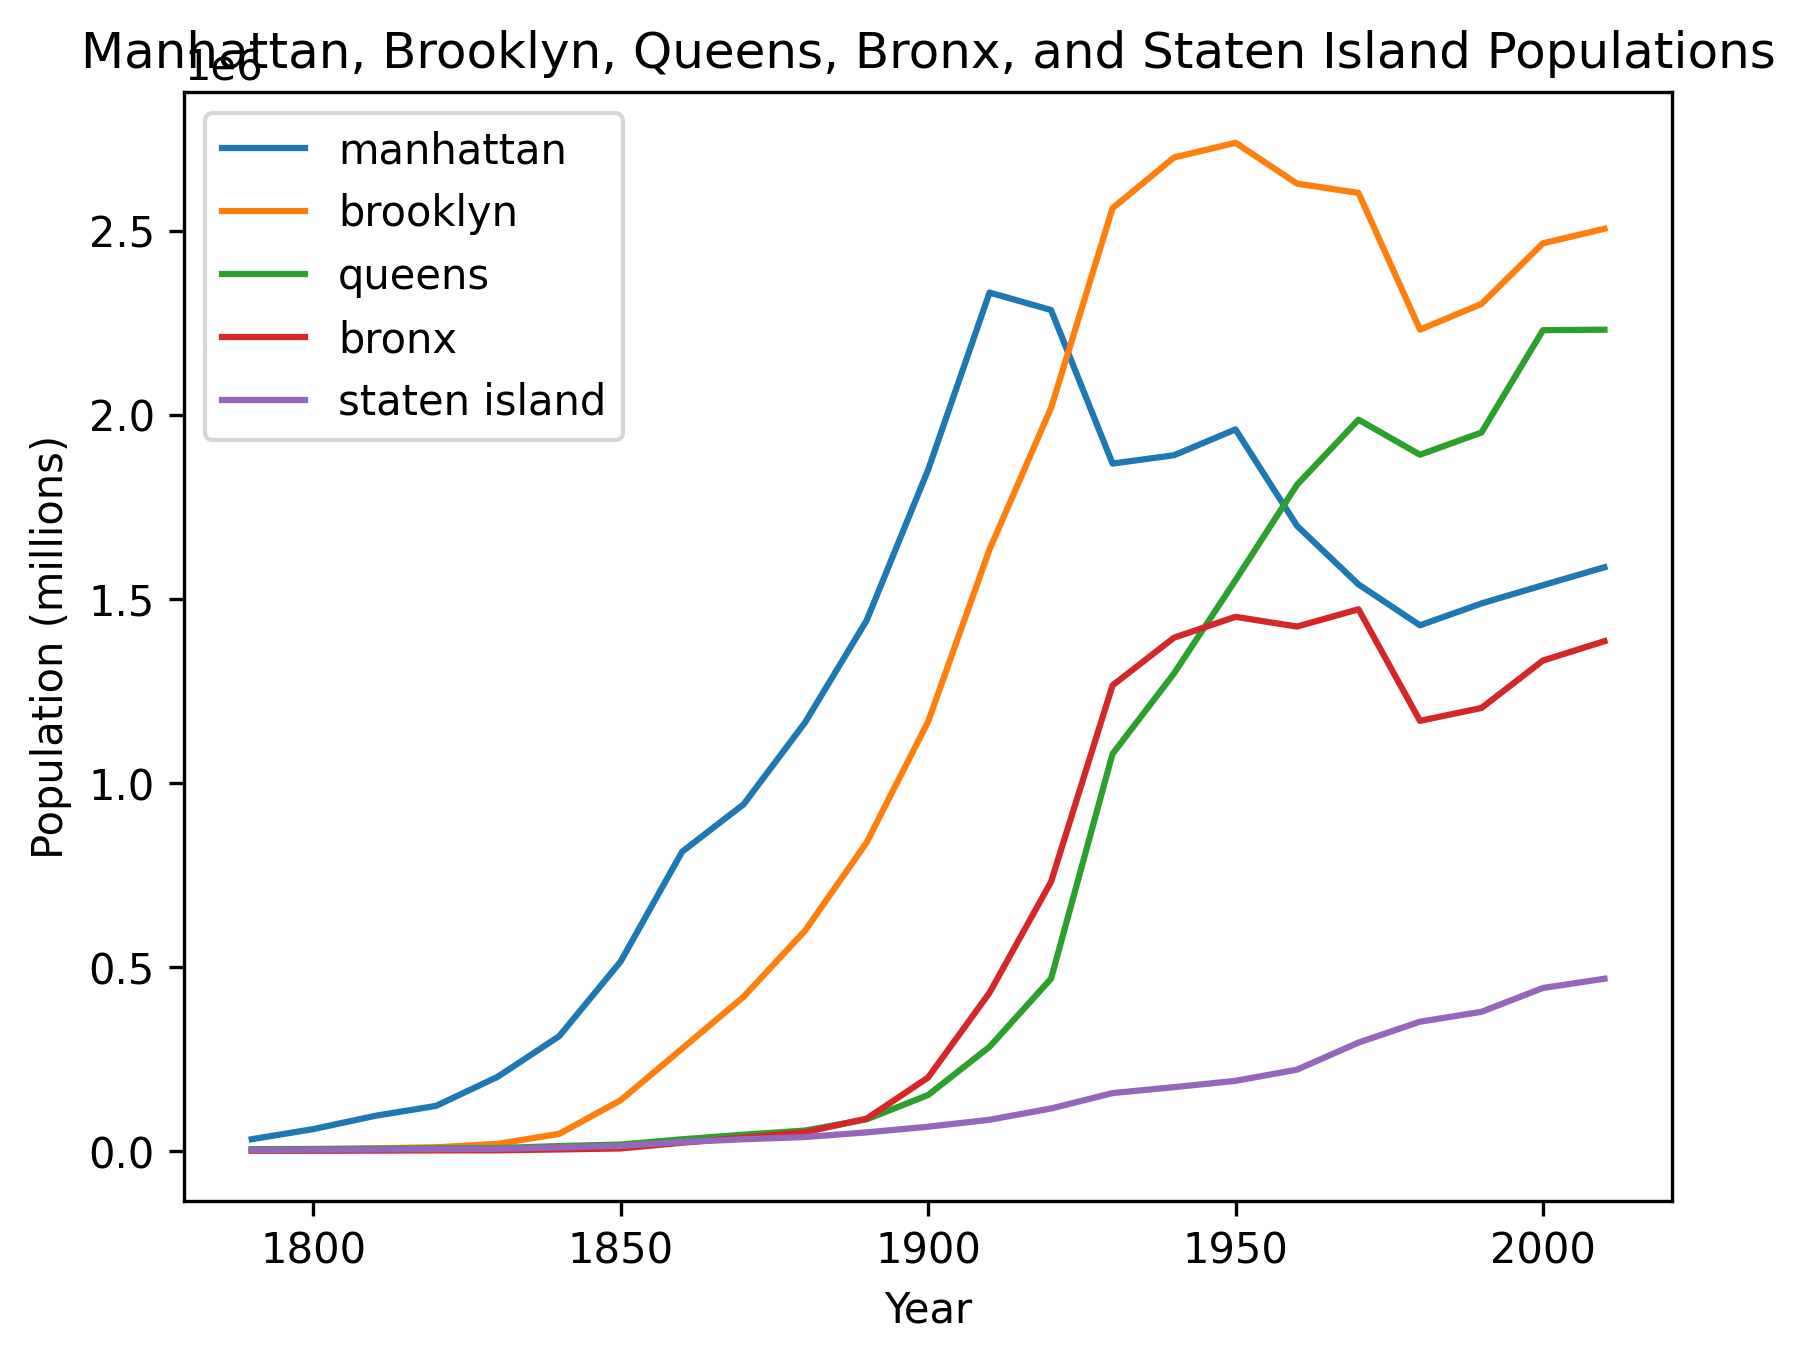
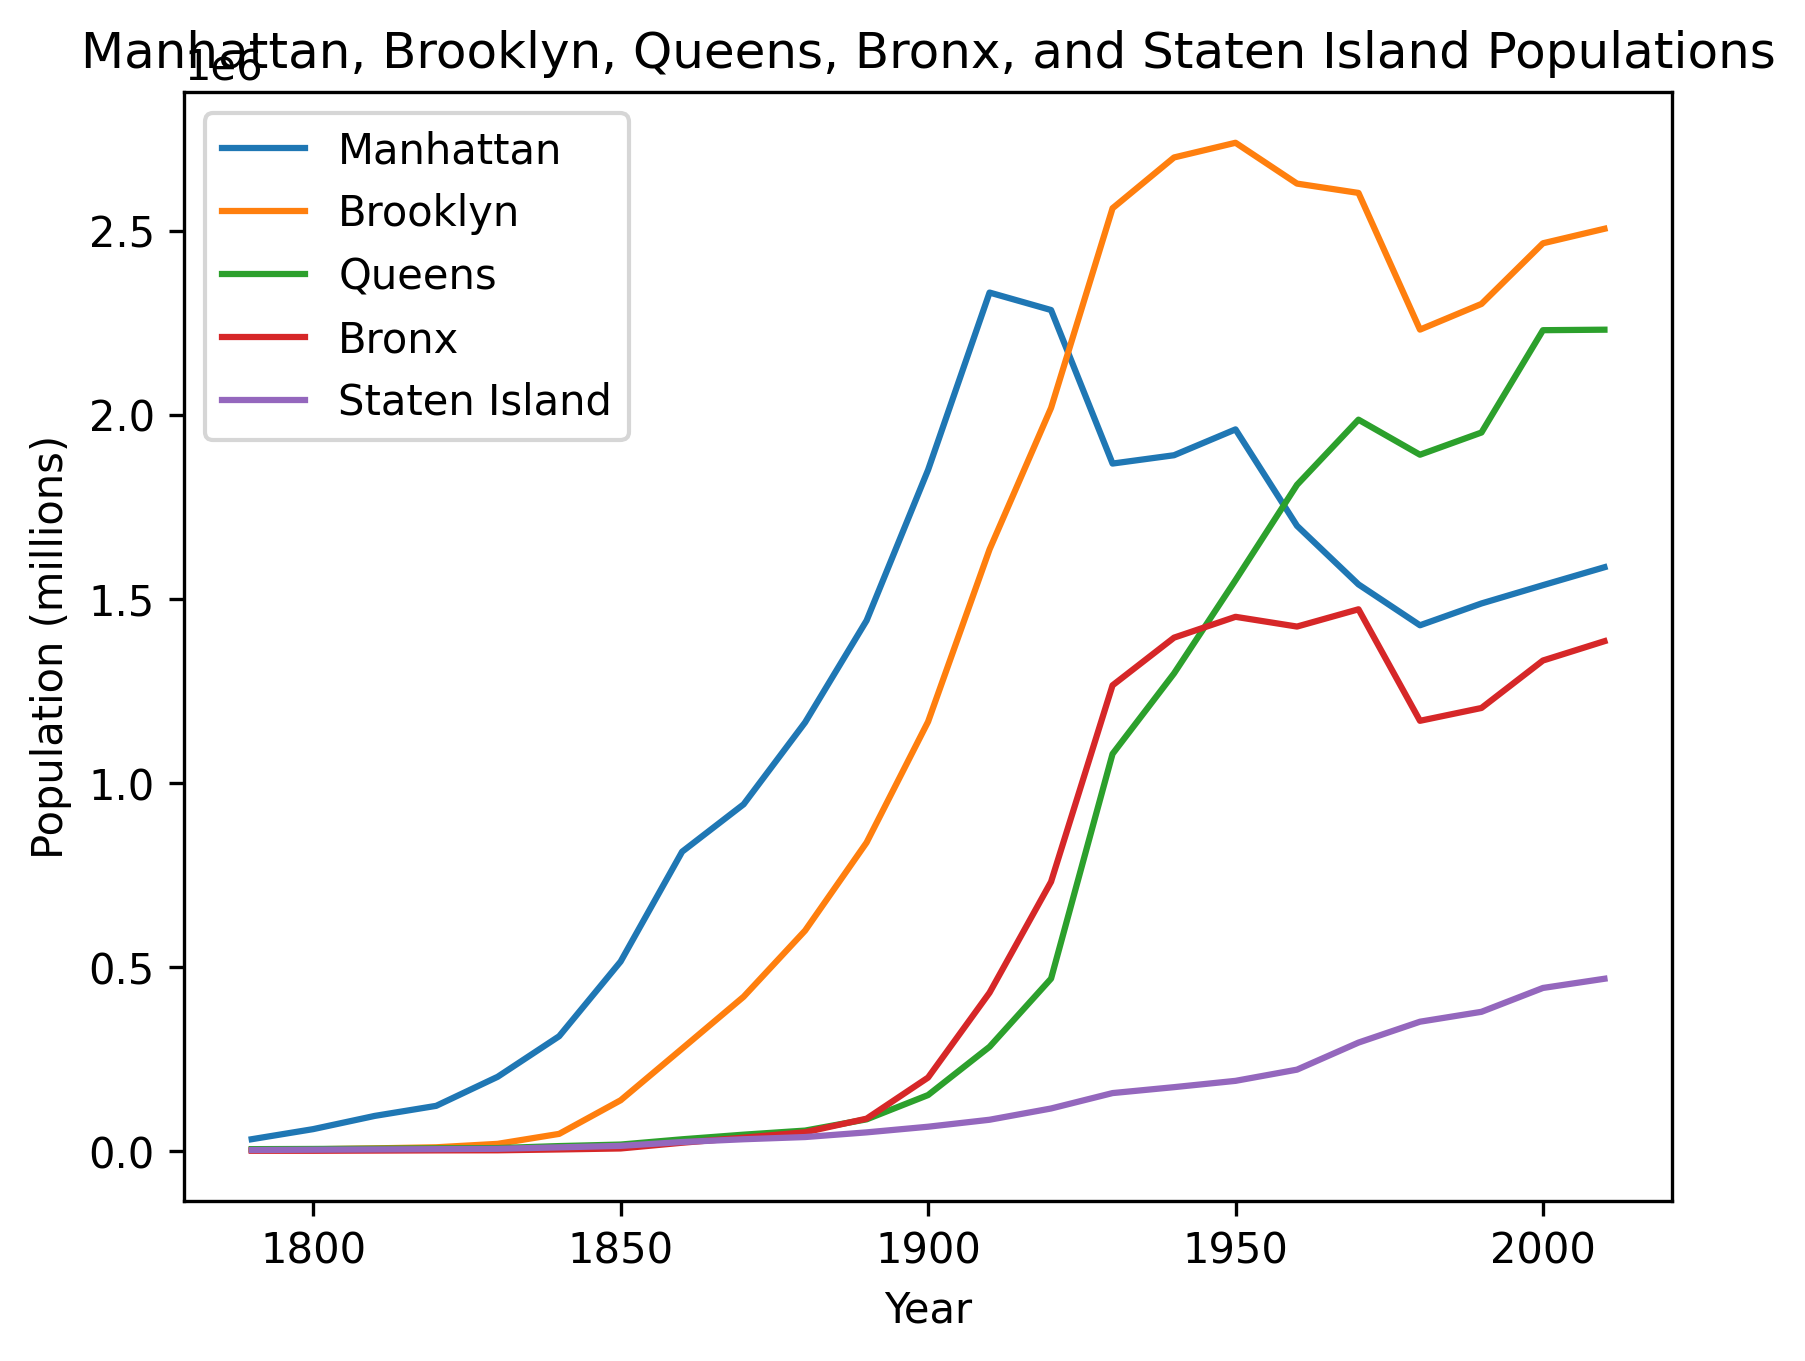
Add more config, updated images, and html files

Changed region(s): [[0.1861, 0.0926, 0.3723, 0.3086]]

diff --git a/docs/index.css b/docs/index.css
@@ -1,0 +1,128 @@
+/* include fonts */
+@import url('https://fonts.googleapis.com/css2?family=Lato:wght@300;400;700&family=Oswald:wght@400;600&display=swap');
+
+:root {
+
+    --pink: #f7868c;
+    --blue: #66a1ff; 
+    --gray: darkgray;
+
+    --navbar-color: var(--blue);
+    --heading-color: var(--gray);
+
+    /* everything will be centered */
+    --navbar-width: 52.5%;
+    --content-width: 50%;
+
+    /* some mobile settings */
+    --navbar-width-mobile: 90%;
+    --content-width-mobile: 85%;
+
+}
+
+@media only screen and (max-width: 1024px) {
+    #navbar { width: var(--navbar-width-mobile)  !important; }
+    #content { width: var(--content-width-mobile) !important; }
+}
+
+* {
+    box-sizing: border-box;
+    margin: 0;
+    padding: 0;
+
+    font-family: 'Lato', sans-serif;
+}
+
+
+#navbar-background {
+    background-color: var(--navbar-color);
+    width: 100vw;
+    color: white;
+    padding: 10px 0;
+    box-shadow: 0 1px 3px gray;
+}
+
+#navbar {
+    width: var(--navbar-width);
+    margin: 0 auto;
+    display: flex;
+    align-items: center;
+}
+
+#navbar .element {
+    margin: 0 15px;
+}
+
+#navbar .title {
+    font-size: 187.5%;
+    user-select: none;
+    font-weight: bold;
+}
+
+#navbar .link {
+    font-size: 90%;
+    transition: opacity 0.3s ease-in-out;
+    opacity: 0.7;
+}
+
+.selected, #navbar .link:hover {
+    text-shadow: 0 0.5px gray;
+    opacity: 1 !important;
+}
+
+#navbar .link a {
+    text-decoration: none;
+    color: inherit;
+}
+
+#content {
+
+    margin: 15px 5px;
+    /* max-width: 1200px; */
+    width: var(--content-width);
+    /* border-right: 3px solid black; */
+
+    margin: 0 auto;
+}
+
+#content .text {
+    margin: 6px 0;
+}
+
+#content .text.column {
+    column-count: 2;
+}
+
+#content .text.indented {
+    text-indent: 15px;
+}
+
+#content .heading, #content .subheading {
+    font-size: 250%;
+    color: var(--heading-color);
+    margin: 7.5px 0;
+    font-family: 'Oswald', sans-serif;
+}
+
+#content .subheading {
+    font-size: 190% !important;
+}
+
+#content .image {
+    margin: 15px 0;
+    /* width: 600px; */
+    max-width: 600px;
+}
+
+#content .image img {
+    /* width: 50vw ; */
+    width: 100%;
+    box-shadow: 0 1px 3px gray;
+}
+
+
+#content .image .caption {
+    font-style: italic;
+    font-weight: lighter;
+    font-size: 85%;
+}

diff --git a/docs/index.html b/docs/index.html
@@ -1,0 +1,53 @@
+<!DOCTYPE html>
+<html lang="en">
+<head>
+    <meta charset="UTF-8">
+    <meta http-equiv="X-UA-Compatible" content="IE=edge">
+    <meta name="viewport" content="width=device-width, initial-scale=1.0">
+
+    <link rel="stylesheet" href="index.css">
+    <title>NYC Population Graphs</title>
+</head>
+<body>
+    <div id="navbar-background">
+        <div id="navbar" class="slide-in">
+            <div class="element title">NYC Population Graphs</div>
+            <div class="element">Myles Pasetsky</div>
+            <div class="element">Period 9</div>
+        </div>
+    </div>
+
+    <div id="content">
+
+        <div class="text">
+            <i>By Myles Pasetsky (Pd 9)</i> 
+        </div>
+
+        <div class="subheading">Question 1 - Choose a borough</div>
+
+        <div class="text">
+            This first graph was used to answer question. The borough I chose was Brooklyn, as I live there.
+            The y-axis is in millions (as noted by the 1e6 above the axis). The chart seems to make sense as taking
+            a look at the raw CSV data, there is a dip in Brooklyn's population in the 1960's.
+        </div>
+
+        <div class="image">
+            <img src="../images/my_borough.png" />
+            <div class="caption">Graph of Brooklyn's population from 1790-2010</div>
+        </div>
+
+        <div class="subheading">Question 2 - all 5 boroughs</div>
+
+        <div class="text">
+            This second graph was used to complete the second question, which required all 5 boroughs. All the boroughs have a unique color noted in the legend. 
+            This chart also seems to have worked because Brooklyn has the same line in this graph as it does for the one in the first question.
+        </div>
+
+        <div class="image">
+            <img src="../images/all_boroughs.png" />
+            <div class="caption">Graph of every NYC borough's population from 1790-2010</div>
+        </div>
+
+    </div>
+</body>
+</html>

diff --git a/main.py b/main.py
@@ -29,43 +29,67 @@ def format_list(L):
         return comma_separated + f', and {L[-1]}'
 
 def parse(filename):
-    
+    '''
+    this function parses the file in a way that's ideal for 
+    using matplotlib 
+
+    it returns (list of years), (list of boroughs), (map of borough -> list of populations)
+
+    a better/cooler representation of the data might be (map of year -> (map of borough -> population))
+    but this makes it harder to use matplot lib
+    '''
+
     def get_parts(l):
         return l.strip().split(',')
 
     with open(filename) as f:
+
         header = get_parts(f.readline())
         boroughs = [ validate_br(br) for br in header[1:] ]
+        
+        years = []
 
-        city_population = {}
+        city_population = {
+            borough: []
+            for borough
+            in boroughs
+        }
 
         for line in read_lines(f):
             data = [ int(part) for part in get_parts(line) ]
 
             year, populations = data[0], data[1:]
 
-            city_population[year] = {
-                borough: population
-                for borough, population
-                in zip(boroughs, populations)
-            }
+            years += [ year ]
 
-        return boroughs, city_population
+            for borough, population in zip(city_population, populations):
+                city_population[borough] += [ int(population) ]
+                
+
+        return years, boroughs, city_population
 
 import matplotlib.pyplot as plt
 
 class CityManager:
 
     def __init__(self, from_csv):
-        self.boroughs, self.populations = parse(from_csv)
-        self.years = list(self.populations.keys())
+        '''
+        class to encapsulate city population data
+
+        parameters-
+            from_csv - data file to read from
+
+        fields-
+            years - list of years (x-values)
+            boroughs - list of boroughs (in population map), help choose a y data set
+            populations - map of lists of populations (all possible y values)
+        '''
+
+        parsed = parse(from_csv)
+        self.years, self.boroughs, self.populations = parsed
 
     def get_borough_data(self, borough):
-        borough = validate_br(borough)
-        y = []
-        for populations in self.populations.values():
-            y += [ populations[borough] ]
-        return self.years, y
+        return self.years, self.populations[borough]
 
     def setup_borough(self, borough):
         borough = validate_br(borough)
@@ -74,10 +98,11 @@ class CityManager:
         plt.plot(
             years, 
             populations, 
-            label=f'{borough}'
+            label=formal_capitalize(borough)
         )
 
     def graph_boroughs(self, boroughs=None, savefile=None, show=True):
+        plt.close()
         boroughs = self.boroughs if boroughs is None else boroughs
 
         for borough in boroughs:
@@ -99,17 +124,22 @@ class CityManager:
 
 if __name__ == "__main__":
 
-    # Save the .GIF programatically
+    # Choose what the program should do
+    SAVE_IMAGE = True
+    SHOW_PLOT = False
+
+    # If going to save the images, select where
     SAVE_TYPE = '.png' #<-- GIF is not available
     
     MY_BOROUGH = 'images/my_borough' + SAVE_TYPE
     ALL_BOROUGHS = 'images/all_boroughs' + SAVE_TYPE
-    
-    SHOW_PLOT = True
+
+    if not SAVE_IMAGE:
+        MY_BOROUGH, ALL_BOROUGHS = None, None
 
     # Parse the CSV file
     CSV_PATH = "resources/nyc-population.csv"
-    
+
     manager = CityManager(from_csv=CSV_PATH)
 
     '''

diff --git a/README.md b/README.md
@@ -6,13 +6,8 @@ Stuyvesant AnnualCs matplotlib assignment
 
 Here are the [population statistics](/resources/nyc-population.csv) for the NYC Boroughs from 1790 until 2010.
 
-Q1. Choose a borough, and create a normal line plot of its population from 1790 to 2010.  Label axes, title, etc.  Save the graph as a .GIF file.
+Q1. Choose a borough, and create a normal line plot of its population from 1790 to 2010.  Label axes, title, etc.  Save the graph as a .PNG file.
 
-Q2. Now try this with all 5 boroughs on the same graph.  Make sure you've got the lines labeled by color, so we can tell which line belongs to which borough.  Save the graph as another .GIF file.
+Q2. Now try this with all 5 boroughs on the same graph.  Make sure you've got the lines labeled by color, so we can tell which line belongs to which borough.  Save the graph as another .PNG file.
 
-Now create a web page showing off those graphs, with some explanation.  Check the webpage on your computer.  Then upload the webpage and the supporting GIF images to moe into your public_html file, and **check** to see if you can display it from moe in your browser.  Put that URL into the Comments-to-teacher (of tale of woe if you can't).
-
-## To Do
-
-- parse data differently to comply with how matplotlib is used
-- finish the HTML webpage
+Now create a web page showing off those graphs, with some explanation.  Check the webpage on your computer.  Then upload the webpage and the supporting PNG images to moe into your public_html file, and **check** to see if you can display it from moe in your browser.  Put that URL into the Comments-to-teacher (of tale of woe if you can't).
